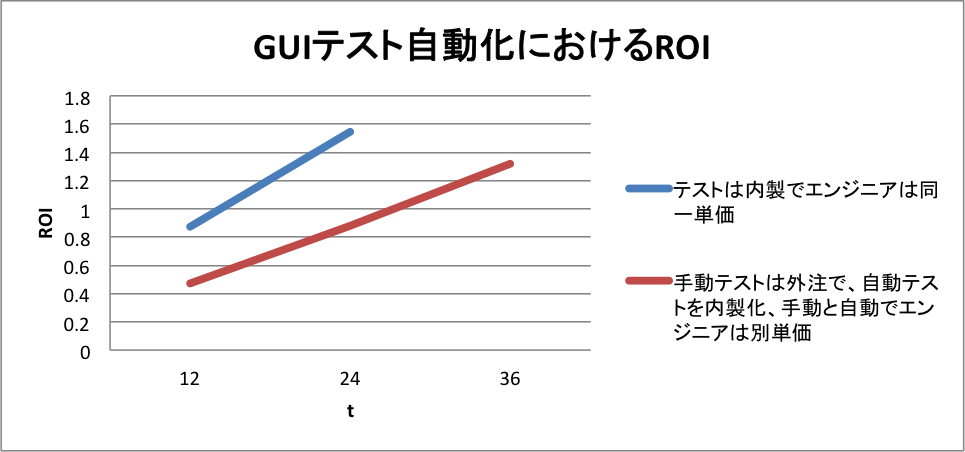
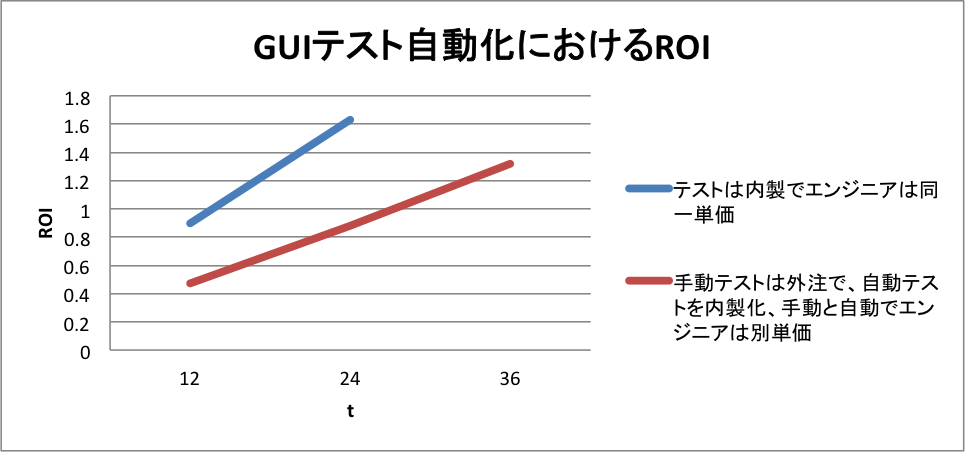
use oss at gui test on both case

Changed region(s): [[0.1865, 0.2478, 0.3731, 0.5265]]

diff --git a/part3.md b/part3.md
@@ -108,7 +108,7 @@ ROI(36ヶ月) = 1,875,500 / 1,700,000 = 1.103 (10%リターン)
 * 手動テストの開発には5人/年、自動テストの開発には15人/年かかります
 * 自動テストでは1年後に1人/年のメンテナンスが発生します
 * 手動テストの実行では10人/年のフルタイムのメンバーが、自動テストでは1人/年のメンバーが必要です
-* 自動テストには900万円の固定費が減価償却3年で必要です
+* 自動テストではオープンソースの無料ツールを使い、ハードウェア分の90万円の固定費が減価償却3年で必要です
 * 試算対象期間 t としては12ヶ月(250日)と24ヶ月(500日)を選びます
 * 手動テスト、自動テストのいずれのエンジニアの単価も80万円/月、960万円/年、4万円/日、5,000円/時とします
 
@@ -120,23 +120,21 @@ ROI(36ヶ月) = 1,875,500 / 1,700,000 = 1.103 (10%リターン)
 
 ΔC(t) = Σ(自動テストによる固定費の増加分)(t) + Σ(自動テストの開発費) - Σ(手動テストの開発費) + Σ(自動テストのメンテナンスコスト) (n1/N)
 
-ΔC(12ヶ月) = (9,000,000 * (1/3)) + (15 * 9,600,000) - (5 * 9,600,000) + 0 = 99,000,000 (円)
+ΔC(12ヶ月) = (900,000 * (1/3)) + (15 * 9,600,000) - (5 * 9,600,000) + 0 = 96,300,000 (円)
 
-ΔC(24ヶ月) = (9,000,000 * (2/3)) + (15 * 9,600,000) - (5 * 9,600,000) + 9,600,000 = 111,600,000 (円)
+ΔC(24ヶ月) = (900,000 * (2/3)) + (15 * 9,600,000) - (5 * 9,600,000) + 9,600,000 = 106,200,000 (円)
 
-ROI(12ヶ月) = 86,400,000 / 99,000,000 = 0.873 (損益分岐点に達しない)
+ROI(12ヶ月) = 86,400,000 / 96,300,000 = 0.897 (損益分岐点に達しない)
 
-ROI(24ヶ月) = 172,800,000 / 111,600,000 = 1.548 (55%リターン)
+ROI(24ヶ月) = 172,800,000 / 106,200,000 = 1.627 (62%リターン)
 
 ### 手動テストは外注で、自動テストを内製化、手動と自動でエンジニアは別単価
 
-スモークテストの時と同じように手動テストは外注し、かつ、自動テストツールはオープンソースの無料ツールを使用するという条件に変更して ROI を求めてみましょう。
+スモークテストの時と同じように手動テストの実行を外注していると仮定し、下記のように条件を変更して再度 ROI を求めてみましょう。
 
 * 手動テストの設計のエンジニアの単価は80万円/月、960万円/年、4万円/日、5,000円/時のままとします
 * スモークテストの時よりも自動テストの設計･実装に高いスキルが必要になると仮定し、自動テストのエンジニアの単価は100万円/月、1200万円/年、5万円/日、6250円/時に変更します
 * スモークテストの時よりも手動テストの実行と分析、報告に高いスキルが必要になると仮定し、手動テストの実行エンジニアの単価を60万円/月、720万円/年、3万円/日、3750円/時に変更します
-* 自動テストではオープンソースの無料ツールを使い、ソフトウェアのコストはかからないように変更します。ただし、商用ツールと同等の機能を一部作り込む必要があり、そのコスト上昇分は自動テストのエンジニアの単価上昇に含まれています
-* 自動テストには実行ハードウェア分の90万円の固定費が減価償却3年で必要です
 * 試算対象期間 t としては36ヶ月(750日)を追加します
 
 ΔB(12ヶ月) = 0 + (10人 * 7,200,000)  - (1人 * 9,600,000) = 62,400,000 (円)
@@ -159,9 +157,7 @@ ROI(36ヶ月) = 187,200,000 / 142,500,000 = 1.317 (32%リターン)
 
 ![GUI自動化におけるROI](gui_test_roi.png)
 
-この条件ではスモークテストよりテストレベルが上がるため、手動テストの実行エンジニアの単価を上げると同時に、自動テストの設計、実装も難易度が上がると仮定し、自動テストのエンジニアの単価も上げました。自動テストエンジニアコスト上昇分を打ち消すためにオープンソースを採用し、ツールのコストを削減しましたが、エンジニアの単価上昇分を打ち消すまでには至っておらず、却って作り込みのスキルに必要な分エンジニアの単価は上昇し、結果として損益分岐点は最初の例よりも遅れてしまいました。
-
-この例からも特に人件費の高い先進国ではツールやハードウェアのコストよりも人件費が ROI に大きく影響を与えることが分かると思います。逆にツールやハードウェアへの投資が人件費の削減に繋がるのでしたら積極的に投資した方が ROI が高まるともいえます。
+この条件ではスモークテストよりテストレベルが上がるため、手動テストの実行エンジニアの単価を上げると同時に、自動テストの設計、実装も難易度が上がると仮定し、内製の自動テストのエンジニアの単価も上げました。エンジニアの単価の変更に伴い ROI と損益分岐点が大きく変化しています。この結果から、特に人件費の高い先進国ではツールやハードウェアのコストよりも人件費が ROI に大きく影響を与えることが分かると思います。逆にツールやハードウェアへの投資が人件費の削減に繋がるのでしたら積極的に投資した方が ROI が高まるともいえます。
 
 # まとめ
 
